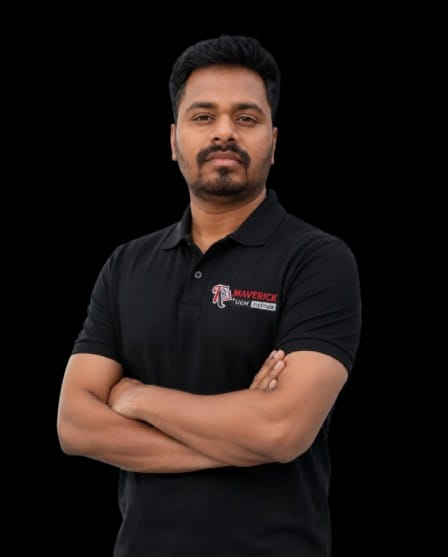
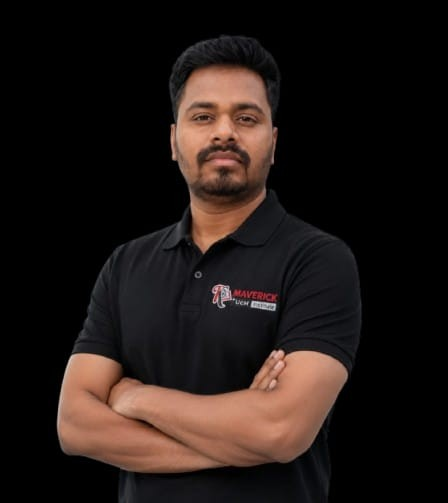
Images Added

Changed region(s): [[0.125, 0.0596, 0.8125, 1.0], [0.5938, 0.0895, 0.625, 0.1193]]

diff --git a/src/pages/CourseDetail.jsx b/src/pages/CourseDetail.jsx
@@ -71,8 +71,8 @@ export default function CourseDetail() {
 
           {/* Course image */}
           {image && (
-            <div className="mt-8 aspect-[16/8] overflow-hidden rounded-xl bg-surface-dim">
-              <img src={image} alt={title} className="h-full w-full object-cover" loading="lazy" />
+            <div className="mt-8 aspect-[16/8] overflow-hidden rounded-xl bg-black flex items-center justify-center">
+              <img src={image} alt={title} className="h-full w-full object-contain" loading="lazy" />
             </div>
           )}
 
@@ -143,38 +143,54 @@ export default function CourseDetail() {
               <h2 className="mt-3 font-display text-2xl font-bold text-ink">
                 The mentors for this batch
               </h2>
-              <div className="mt-6 grid grid-cols-1 gap-6 sm:grid-cols-2">
+              <div className="mt-8 grid grid-cols-1 gap-6 sm:grid-cols-2">
                 {instructors.map((f) => (
-                  <div key={f.id} className="flex gap-4 glass-card p-4">
-                    {f.image ? (
-                      <img
-                        src={f.image}
-                        alt={f.name}
-                        className="w-20 h-20 shrink-0 rounded object-cover"
-                        loading="lazy"
-                      />
-                    ) : (
-                      <div className="flex w-20 h-20 shrink-0 items-center justify-center rounded bg-surface-bright text-ink-faint font-display text-2xl font-bold">
-                        {f.name.charAt(0)}
-                      </div>
-                    )}
-                    <div className="min-w-0">
-                      <h3 className="font-display text-lg font-bold text-ink">{f.name}</h3>
-                      <div className="mt-1 inline-flex items-center rounded-full px-2 py-0.5 bg-red-light text-primary text-xs font-semibold tracking-wide">
-                        Specialist: {f.subject}
-                      </div>
-                      <p className="mt-2 text-sm text-ink-faint">{f.bio}</p>
+                  <div key={f.id} className="group relative flex flex-col rounded-3xl bg-black border border-white/5 transition-all duration-300 hover:border-white/10 hover:shadow-2xl overflow-hidden">
+                    
+                    {/* Image Area - Fixed height portrait space */}
+                    <div className="relative h-72 w-full shrink-0 bg-black flex items-end justify-center pt-8">
+                      {f.image ? (
+                        <img
+                          src={f.image}
+                          alt={f.name}
+                          className="max-h-full w-full object-contain object-bottom transition-transform duration-700 group-hover:scale-105 opacity-90 group-hover:opacity-100"
+                          loading="lazy"
+                        />
+                      ) : (
+                         <div className="flex h-full w-full items-center justify-center">
+                          <span className="font-display text-5xl font-bold text-red/20 group-hover:text-red/40 transition-colors">
+                            {f.name.charAt(0)}
+                          </span>
+                        </div>
+                      )}
+                      {/* Very subtle bottom gradient just to smooth out any harsh edges from the photo */}
+                      <div className="absolute inset-0 bg-gradient-to-t from-black via-transparent to-transparent opacity-80 pointer-events-none" />
+                    </div>
+
+                    {/* Content Area */}
+                    <div className="relative z-10 flex flex-1 flex-col items-center text-center p-6 sm:p-8 pt-0">
+                      <span className="text-[10px] font-bold tracking-widest text-red uppercase mb-3">
+                        {f.subject} Specialist
+                      </span>
+                      <h3 className="font-display text-3xl font-bold text-white transition-colors duration-300">{f.name}</h3>
+                      
+                      <p className="mt-4 text-sm leading-relaxed text-white/50">
+                        {f.bio}
+                      </p>
+                      
                       {f.coursePlanPdf && (
-                        <a
-                          href={f.coursePlanPdf}
-                          download
-                          target="_blank"
-                          rel="noopener noreferrer"
-                          className="mt-4 inline-flex items-center gap-2 text-xs font-bold uppercase tracking-wide text-primary hover:text-white transition-colors"
-                        >
-                          <Download className="h-3.5 w-3.5" />
-                           {f.subject} Lecture Plan
-                        </a>
+                        <div className="mt-8 w-full mt-auto pt-4">
+                          <a
+                            href={f.coursePlanPdf}
+                            download
+                            target="_blank"
+                            rel="noopener noreferrer"
+                            className="inline-flex w-full items-center justify-center gap-2 rounded-xl bg-white/5 px-4 py-3.5 text-xs font-bold uppercase tracking-wider text-white/80 transition-all duration-300 hover:bg-white hover:text-black border border-white/5 hover:border-white"
+                          >
+                            <Download className="h-4 w-4" />
+                            Lecture Plan
+                          </a>
+                        </div>
                       )}
                     </div>
                   </div>

diff --git a/src/data/courses.js b/src/data/courses.js
@@ -18,7 +18,7 @@ export const courses = [
     grade: '10',
     stream: null,
     board: 'CBSE',
-    title: 'Class 10 — PCMB Complete Batch',
+    title: 'TITAN Batch - PCMB',
     tagline: 'Physics, Chemistry, Mathematics & Biology — everything you need for boards.',
     subjects: ['Physics', 'Chemistry', 'Mathematics', 'Biology'],
     duration: '11 months',
@@ -52,7 +52,7 @@ export const courses = [
         description: 'Round-the-clock peer and faculty support channel',
       },
     ],
-    image: '/courses/class-10/cover.png',
+    image: '/courses/class-10/cover.jpg',
     featured: true,
     mentors: [
       {
@@ -60,7 +60,7 @@ export const courses = [
         name: 'Karthick Sir',
         subject: 'Physics',
         bio: 'Renowned expert in conceptual physics with over 10 years of experience simplifying complex topics for Class 10.',
-        image: '/male.jpeg',
+        image: '/staffs/physics.jpg',
         coursePlanPdf: '/pdfs/class-10-physics-plan.pdf',
       },
       {
@@ -73,18 +73,18 @@ export const courses = [
       },
       {
         id: 'f3',
-        name: 'Mr. Ravi',
+        name: 'Mr. Rethik Raj',
         subject: 'Mathematics',
         bio: '14 years teaching Mathematics. Focuses on strong logical foundations and quick problem-solving techniques.',
-        image: '/male.jpeg',
+        image: '/staffs/math.jpg',
         coursePlanPdf: '/pdfs/class-10-maths-plan.pdf',
       },
       {
         id: 'f4',
-        name: 'Dr. Meera Nair',
+        name: 'Dr. Meera',
         subject: 'Biology',
         bio: 'PhD in Zoology. Specializes in diagram-based teaching and making Biology highly scoring.',
-        image: '/female.jpeg',
+        image: '/staffs/bio.jpg',
         coursePlanPdf: '/pdfs/class-10-biology-plan.pdf',
       }
     ],